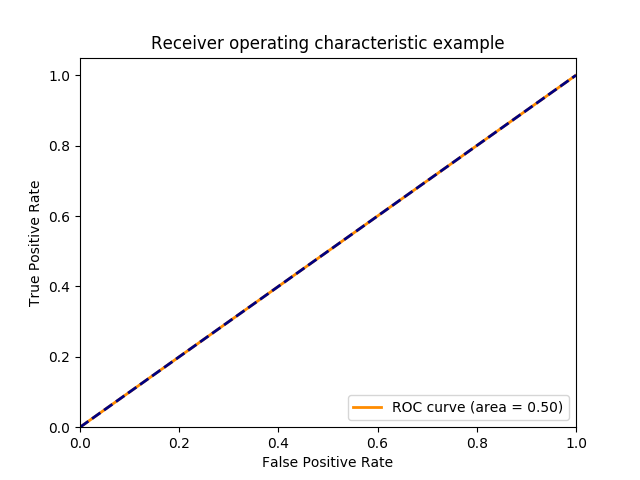
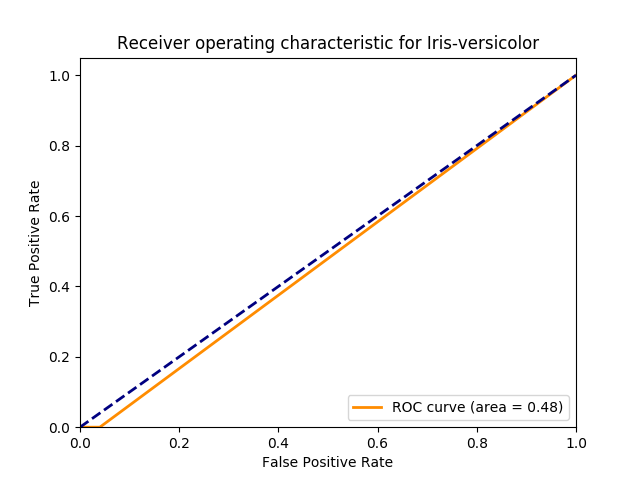
updated code

diff --git a/iris/src/irisLogRegClassification.py b/iris/src/irisLogRegClassification.py
@@ -12,7 +12,7 @@ from sklearn.linear_model import LogisticRegression
 from sklearn.metrics import f1_score, confusion_matrix, roc_curve, auc
 from sklearn.model_selection import cross_val_score
 
-from pulib.pu_data import pn_from_dataframe, pu_from_y_train
+from pulib.pu_data import pn_from_dataframe, pos_from_y_train
 
 # Ignore warnings
 import warnings
@@ -24,6 +24,7 @@ for specie in ['Iris-setosa', 'Iris-versicolor', 'Iris-virginica']:
 
     print('###', specie)
     irisDataset = pn_from_dataframe(irisDataset, 'Species', specie)
+    irisDataset['y'].loc[irisDataset['y'] == -1] = 0
 
     # Splits x and y (features and target)
     train_size = int(sys.argv[1])
@@ -31,7 +32,7 @@ for specie in ['Iris-setosa', 'Iris-versicolor', 'Iris-virginica']:
     x_train, x_test, y_train, y_test = train_test_split(
         irisDataset.drop(['Id','y','Species'],axis=1), irisDataset['y'].astype('int'), train_size=train_size, stratify=irisDataset['Species'])
 
-    y_train = pu_from_y_train(y_train, int(sys.argv[2]))
+    y_train = pos_from_y_train(y_train, sys.argv[2])
 
     logReg = LogisticRegression()
 
@@ -58,13 +59,12 @@ for specie in ['Iris-setosa', 'Iris-versicolor', 'Iris-virginica']:
     fpr = {}
     tpr = {}
     roc_auc = {}
-    y_test_values = y_test.values
 
-    fpr[0], tpr[0], _ = roc_curve(y_test_values, y_predict)
+    fpr[0], tpr[0], _ = roc_curve(y_test, y_predict)
     roc_auc[0] = auc(fpr[0], tpr[0])
 
     # Compute micro-average ROC curve and ROC area
-    fpr["micro"], tpr["micro"], _ = roc_curve(y_test_values, y_predict)
+    fpr["micro"], tpr["micro"], _ = roc_curve(y_test, y_predict)
     roc_auc["micro"] = auc(fpr["micro"], tpr["micro"])
 
     plt.figure()
@@ -76,6 +76,6 @@ for specie in ['Iris-setosa', 'Iris-versicolor', 'Iris-virginica']:
     plt.ylim([0.0, 1.05])
     plt.xlabel('False Positive Rate')
     plt.ylabel('True Positive Rate')
-    plt.title('Receiver operating characteristic example')
+    plt.title('Receiver operating characteristic for ' + specie)
     plt.legend(loc="lower right")
     plt.savefig('../output/rocCurves/logReg/' + specie + '.png')

diff --git a/iris/src/irisPUClassification.py b/iris/src/irisPUClassification.py
@@ -13,7 +13,7 @@ from sklearn.model_selection import cross_val_score
 from pywsl.pul import pu_mr
 from pywsl.utils.comcalc import bin_clf_err
 
-from pulib.pu_data import pn_from_dataframe, pu_from_y_train
+from pulib.pu_data import pn_from_dataframe, pos_from_y_train
 
 # Ignore warnings
 import warnings
@@ -35,16 +35,16 @@ for specie in ['Iris-setosa', 'Iris-versicolor', 'Iris-virginica']:
 
     pu_sl = pu_mr.PU_SL()
 
-    y_train = pu_from_y_train(y_train, int(sys.argv[2]))
+    y_train = pos_from_y_train(y_train, sys.argv[2])
 
     # Train the model
-    pu_sl.fit(x_train, y_train.values)
+    pu_sl.fit(x_train, y_train)
 
     # Test the model
     y_predict = pu_sl.predict(x_test)
 
     # Binary clf error calculation
-    score = bin_clf_err(y_test, y_predict, prior=.5)
+    score = bin_clf_err(y_test, y_predict)
     print('\nbin_clf_err:\n\n', score)
 
     # Confusion Matrix calculation
@@ -55,13 +55,12 @@ for specie in ['Iris-setosa', 'Iris-versicolor', 'Iris-virginica']:
     fpr = {}
     tpr = {}
     roc_auc = {}
-    y_test_values = y_test.values
 
-    fpr[0], tpr[0], _ = roc_curve(y_test_values, y_predict)
+    fpr[0], tpr[0], _ = roc_curve(y_test, y_predict)
     roc_auc[0] = auc(fpr[0], tpr[0])
 
     # Compute micro-average ROC curve and ROC area
-    fpr["micro"], tpr["micro"], _ = roc_curve(y_test_values, y_predict)
+    fpr["micro"], tpr["micro"], _ = roc_curve(y_test, y_predict)
     roc_auc["micro"] = auc(fpr["micro"], tpr["micro"])
 
     plt.figure()
@@ -73,7 +72,7 @@ for specie in ['Iris-setosa', 'Iris-versicolor', 'Iris-virginica']:
     plt.ylim([0.0, 1.05])
     plt.xlabel('False Positive Rate')
     plt.ylabel('True Positive Rate')
-    plt.title('Receiver operating characteristic example')
+    plt.title('Receiver operating characteristic for ' + specie)
     plt.legend(loc="lower right")
     plt.savefig('../output/rocCurves/pu/' + specie + '.png')
 

diff --git a/iris/src/README.md b/iris/src/README.md
@@ -1,101 +1,98 @@
 # Machine Learning Results:
-## Multi-layer Perceptron with training size = 120:
+## Multi-layer Perceptron with training size = 75:
 
 f1-score:
 
- 0.9333333333333333
+ 0.6666666666666666
 
 Confusion Matrix:
 
- [[10  0  0]
- [ 0  8  2]
- [ 0  0 10]]
+ [[25  0  0]
+ [ 0 25  0]
+ [ 0 25  0]]
 
 Cross-validation:
 
-Accuracy: 0.85 (+/- 0.15)
+Accuracy: 0.69 (+/- 0.26)
 
 
-## Logistic Regression with training size = 120:
+## Logistic Regression with training size = 75 and positive size = 30:
 ### Iris-setosa
 
 f1-score:
 
- 0.0
+ 0.3902439024390244
 
 Confusion Matrix:
 
- [[ 0 20  0]
- [ 0  0  0]
- [ 0 10  0]]
+ [[48  2]
+ [25  0]]
 
 Cross-validation:
 
-Accuracy: 0.92 (+/- 0.00)
+Accuracy: 0.63 (+/- 0.05)
 
 
 ### Iris-versicolor
 
 f1-score:
 
- 0.0
+ 0.3902439024390244
 
 Confusion Matrix:
 
- [[ 0 20  0]
- [ 0  0  0]
- [ 0 10  0]]
+ [[48  2]
+ [25  0]]
 
 Cross-validation:
 
-Accuracy: 0.92 (+/- 0.00)
+Accuracy: 0.63 (+/- 0.09)
 
 
 ### Iris-virginica
 
 f1-score:
 
- 0.0
+ 0.4
 
 Confusion Matrix:
 
- [[ 0 20  0]
- [ 0  0  0]
- [ 0 10  0]]
+ [[50  0]
+ [25  0]]
 
 Cross-validation:
 
-Accuracy: 0.92 (+/- 0.00)
+Accuracy: 0.67 (+/- 0.00)
 
 
-## Positive-Unlabeled Classification with training size = 120 and positive size = 10:
+## Positive-Unlabeled Classification with training size = 75 and positive size = 30:
 ### Iris-setosa
 
 bin_clf_err:
 
- 0.45999999999999996
+ 0.22666666666666666
 
 Confusion Matrix:
 
- [[17  3]
- [ 8  2]]
+ [[50  0]
+ [17  8]]
 ### Iris-versicolor
 
 bin_clf_err:
 
- 0.6785714285714286
+ 0.37333333333333335
 
 Confusion Matrix:
 
- [[18  2]
- [10  0]]
+ [[47  3]
+ [25  0]]
 ### Iris-virginica
 
 bin_clf_err:
 
- 0.14285714285714285
+ 0.4
 
 Confusion Matrix:
 
- [[20  0]
- [ 8  2]]
+ [[45  5]
+ [25  0]]
